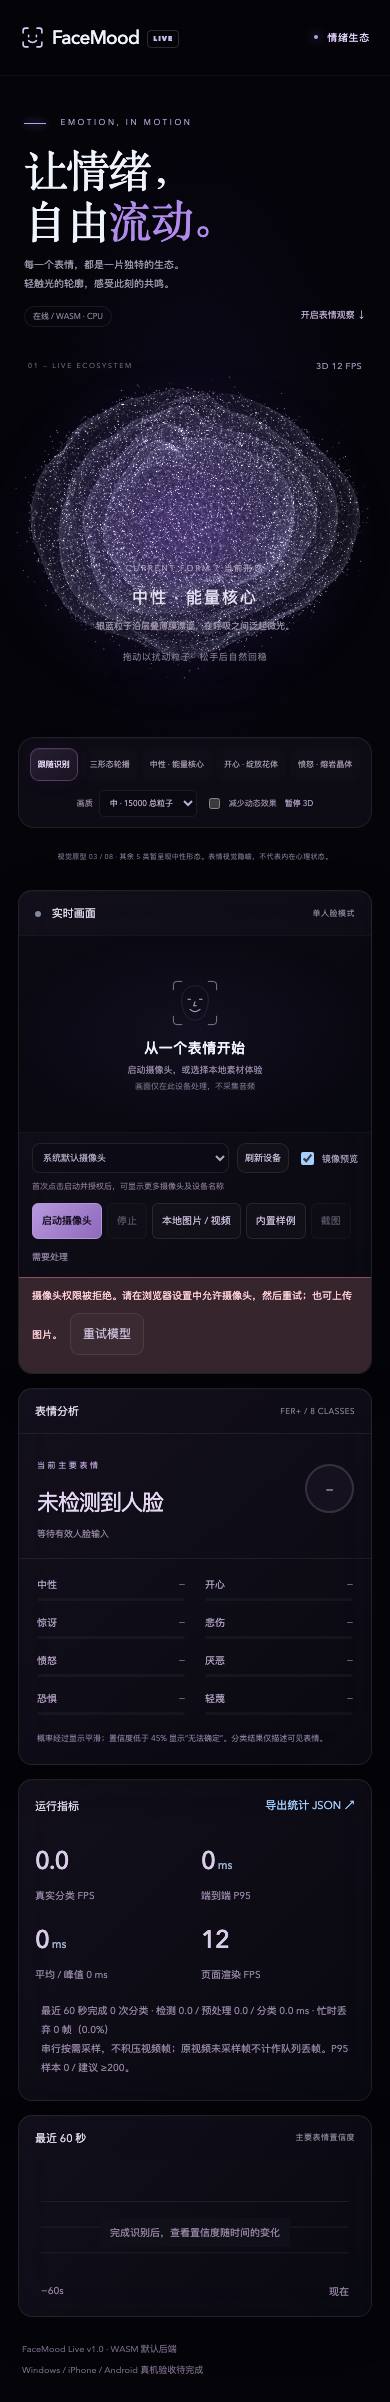
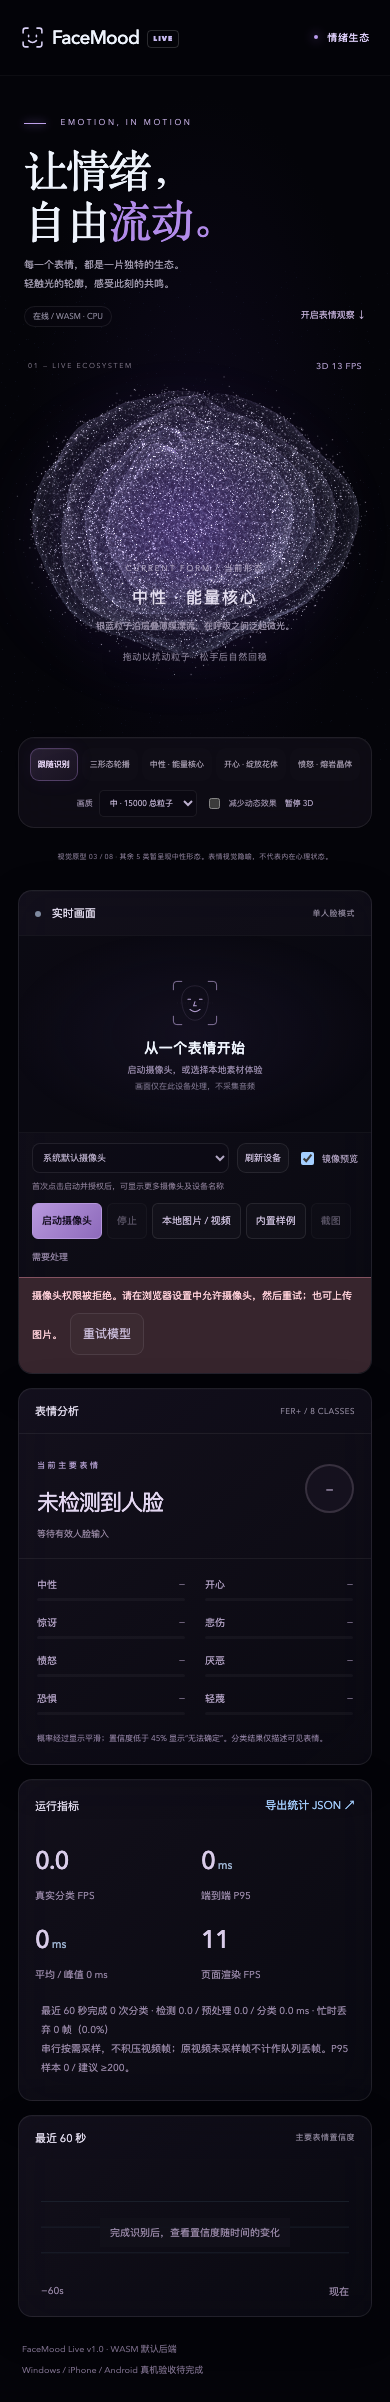
docs: record bounded interaction hotfix deployment

Changed region(s): [[0.0615, 0.1561, 0.8923, 0.281], [0.5538, 0.7806, 0.5846, 0.8118]]

diff --git a/reports/deployment_status.md b/reports/deployment_status.md
@@ -1,3 +1,14 @@
+# Current interaction hotfix — 2026-10-21 22:40 (Asia/Shanghai)
+
+- URL remains https://106.53.199.187:8443/ . Current application source is `29a9137e8a5c0cd44e606ca70e1bfdd2bf778c64`, release `20261021-224046-29a9137e`.
+- Fixes overly strong accumulated pointer disturbance and global crystal-fragment movement. Surface deformation now has a final 0.075-unit vector cap, a smaller local splat, and bounded field speed. See `reports/emotion-interaction-tuning.md`.
+- 51 unit tests and 3 targeted browser interaction/quality cases passed; both builds passed. Public post-deployment checks are recorded in `reports/deployment_verification.json` (including its source version).
+- 5 changed files / 187,192 compressed bytes transferred, 22 unchanged files reused; all 27 files SHA-256 verified. Model SHA is unchanged, and no server configuration/service/GPU change was made. Existing port 443 response status and SHA-256 were preserved.
+- Previous test release `20261021-185308-f71799b9` remains available. Guarded rollback on the server: `python3 /var/backups/facemood/20261021-224046-29a9137e/rollback.py`.
+- The historical public visual-switch report below names source `f71799b9`; the latest targeted interaction checks were performed locally on the hotfix build.
+
+---
+
 # Deployment status — 2026-10-21 (Asia/Shanghai)
 
 - Public test URL: https://106.53.199.187:8443/

diff --git a/reports/emotion-interaction-tuning.md b/reports/emotion-interaction-tuning.md
@@ -18,3 +18,5 @@ The old field accumulated up to ±2 on each axis (diagonal magnitude ~2.83), and
 New regression tests first reproduced an accumulated field speed of ~2.797 and fragment displacement of ~0.356 units under repeated fast gestures. After the fix, the field stays below 0.18; fragment offsets stay below 0.06, distant fragments below 0.001, and both return to rest. The existing particle attachment regression now targets the touched fragment and checks its deliberately smaller movement.
 
 Vitest: 51 passed. Production TypeScript/build passed. Targeted Playwright mouse drag, touch/cancel/settling/visibility recovery, and high/low/medium quality checks: 3 passed. Both normal and server production builds passed. These checks do not replace physical iPhone/desktop performance acceptance.
+
+Published to the existing HTTPS test URL as `20261021-224046-29a9137e` with unchanged model SHA and server configuration. Public model/sample/caching/permission-recovery/mobile-layout verification passed with no page errors. The previous test release and guarded rollback are retained.
